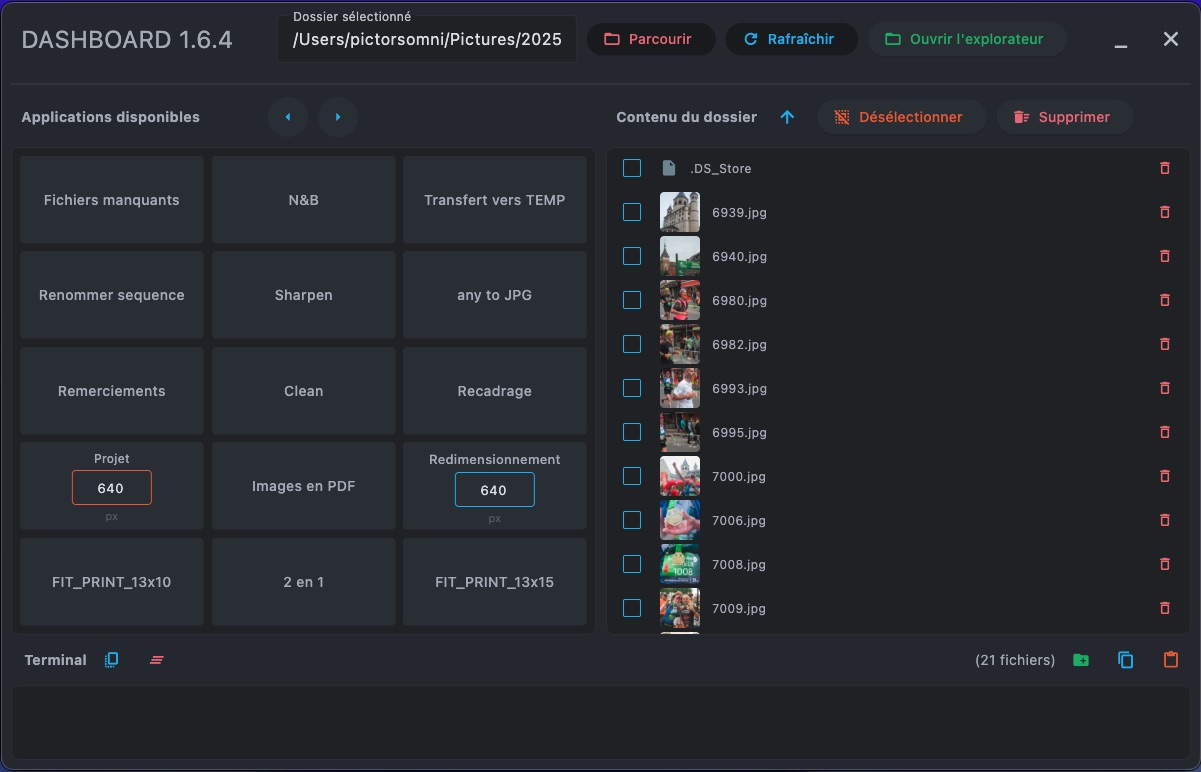
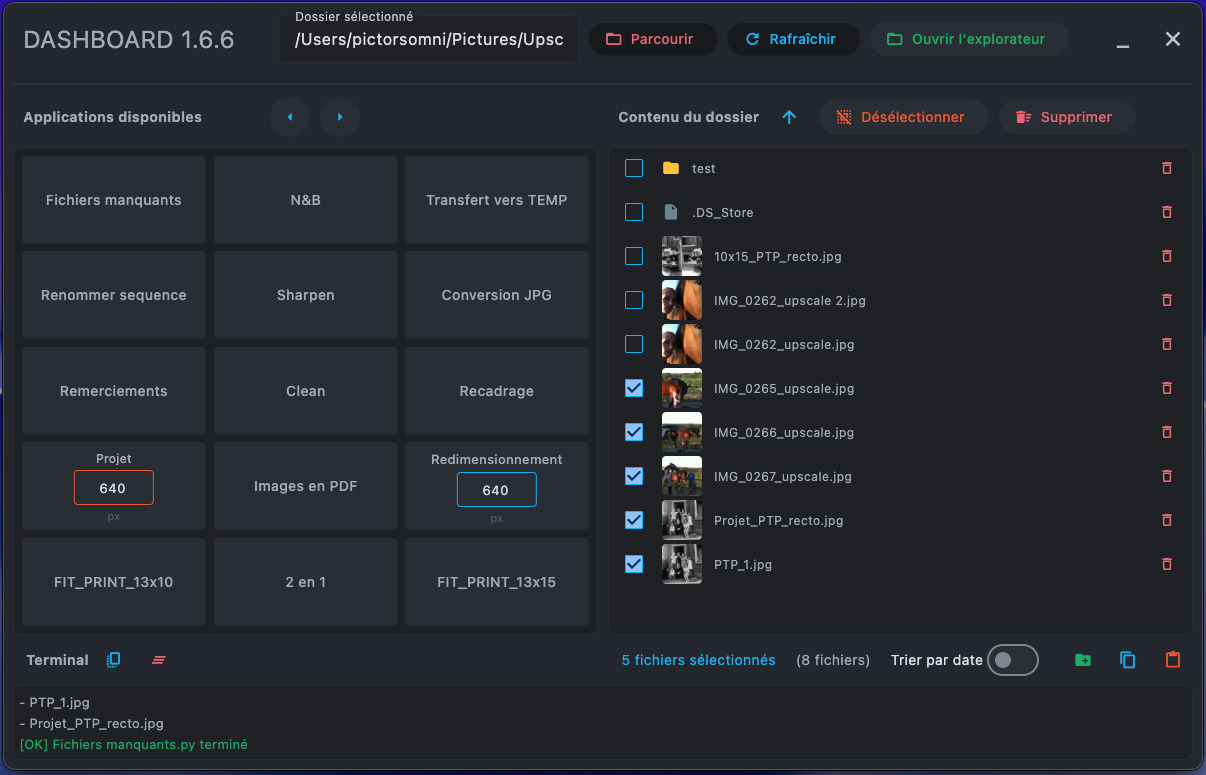
Added update files and any to JPG has been renamed to Conversion JPG since this app is in french.

diff --git a/run.py b/run.py
@@ -46,7 +46,7 @@ def main():
     missing = check_dependencies()
     
     if missing:
-        print("❌ Dépendances manquantes:", ", ".join(missing))
+        print("[ERREUR] Dépendances manquantes:", ", ".join(missing))
         print()
         print("Installez-les avec:")
         if os.name == 'nt':  # Windows
@@ -61,25 +61,25 @@ def main():
     # Vérifier que Dashboard.py existe
     dashboard_path = Path(__file__).parent / "Dashboard.py"
     if not dashboard_path.exists():
-        print("❌ Fichier Dashboard.py introuvable dans le dossier courant")
+        print("[ERREUR] Fichier Dashboard.py introuvable dans le dossier courant")
         sys.exit(1)
     
     # Vérifier que le dossier Data existe
     data_path = Path(__file__).parent / "Data"
     if not data_path.exists():
-        print("⚠  Dossier Data introuvable - certaines applications pourraient ne pas fonctionner")
+        print("[WARN] Dossier Data introuvable - certaines applications pourraient ne pas fonctionner")
     
-    print("✓ Toutes les dépendances sont installées")
-    print("✓ Lancement du Dashboard...")
+    print("[OK] Toutes les dépendances sont installées")
+    print("[OK] Lancement du Dashboard...")
     print()
     
     # Lancer Dashboard.py
     try:
         subprocess.run([sys.executable, str(dashboard_path)], check=True)
     except KeyboardInterrupt:
-        print("\n✓ Dashboard fermé")
+        print("\n[OK] Dashboard fermé")
     except Exception as e:
-        print(f"❌ Erreur lors du lancement: {e}")
+        print(f"[ERREUR] Erreur lors du lancement: {e}")
         sys.exit(1)
 
 if __name__ == "__main__":

diff --git a/Data/Conversion JPG.py b/Data/Conversion JPG.py
@@ -21,7 +21,7 @@ PATH = Path(__file__).resolve().parent
 selected_files_str = os.environ.get("SELECTED_FILES", "")
 selected_files_set = set(selected_files_str.split("|")) if selected_files_str else None
 
-EXTENSIONS = (".avif",".heic", ".webp", ".png", ".tiff", ".jpeg")
+EXTENSIONS = (".avif",".heic", ".webp", ".png", ".tiff", ".jpeg", ".bmp", ".gif", ".psd", ".svg", ".ico", ".jfif", ".jpe", ".jif", ".jfi")
 all_files = [file for file in sorted(PATH.iterdir()) if file.is_file() and file.suffix.lower() in EXTENSIONS]
 FOLDER = [f for f in all_files if f.name in selected_files_set] if selected_files_set else all_files
 TOTAL = len(FOLDER)
